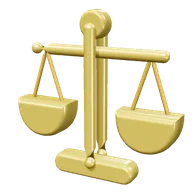
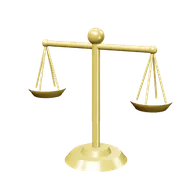
Símbolos modelados en 3D real (16 más): estetoscopio, maletín, termómetro, jeringa, manzana, balanza, mazo, monitor, báscula, alcancía, moneda, pizarrón, birrete, casco, llave y candado

diff --git a/datos/simbolos3d/models.js b/datos/simbolos3d/models.js
@@ -34,6 +34,152 @@ export function kit(material,g){
 const GY='#8C96A0',ST='#A9B6C2',BK='#3A4048',WH='#F3F1EA',RE='#DE4A3C',BL='#3F82C4',GR='#4FAE5B',YE='#F6CD3B',BR='#8A5A36',WO='#B9804B',GO='#E8B53C',NA='#2D4A6E',CR='#F0E2C2',SK='#E7A97C';
 
 export const MODELS={
+  // Estetoscopio: olivas, tubos metálicos en Y, manguera y campana con diafragma
+  'medicina.a'(K){
+    K.sph(3.4,BK,{p:[-16,60,4]});K.sph(3.4,BK,{p:[16,60,4]});
+    K.tube([[-16,58,3],[-15,46,1],[-9,34,0],[0,28,0]],1.5,ST,{m:'metal'});
+    K.tube([[16,58,3],[15,46,1],[9,34,0],[0,28,0]],1.5,ST,{m:'metal'});
+    K.tube([[-10,40,0],[10,40,0]],0.8,ST,{m:'metal'});
+    K.tube([[0,28,0],[0,16,0],[-6,2,2],[-2,-12,6],[12,-14,6],[20,-6,4]],2.4,BK);
+    const h=K.group({p:[24,-4,4],r:[90,0,0]});
+    K.cyl(9,9,4,ST,{m:'metal',parent:h});K.cyl(7.6,7.6,4.4,'#E6EBEF',{parent:h,p:[0,0.4,0]});K.cyl(3,3,5,'#9AA3AC',{m:'metal',parent:h,p:[0,-2,0]});
+  },
+  // Maletín médico con asa, cierre y cruz en ambas caras
+  'medicina.b'(K){
+    K.box(72,46,30,RE,{p:[0,0,0],rad:6});
+    K.box(73,4,31,'#B23A2E',{p:[0,14,0],rad:1.5});
+    K.tube([[-14,23,0],[-14,32,0],[14,32,0],[14,23,0]],2.6,BK,{tension:0.2});
+    [15.3,-15.3].forEach(z=>{K.box(20,6,1.2,WH,{p:[0,-3,z],rad:0.6});K.box(6,20,1.2,WH,{p:[0,-3,z],rad:0.6})});
+    K.box(6,4,2,GO,{m:'gold',p:[0,14,15.6],rad:0.6});
+  },
+  // Termómetro de vidrio con bulbo rojo, columna y escala
+  'o_termometro.a'(K){
+    K.cyl(7,7,70,'#EDF6FA',{m:'glass',p:[0,10,0]});K.sph(7,'#EDF6FA',{m:'glass',p:[0,45,0]});
+    K.sph(11,RE,{p:[0,-30,0]});K.cyl(2.6,2.6,52,RE,{p:[0,0,0]});
+    for(let i=0;i<9;i++)K.box(i%2?3:5,0.8,1,'#5B6670',{p:[8.5,-12+i*6,0],rad:0.2});
+  },
+  // Jeringa: barril de vidrio con líquido, émbolo, aletas y aguja
+  'enfermeria.b'(K){
+    const g=K.group({r:[0,0,-40]});
+    K.cyl(8,8,50,'#DDF1FA',{m:'glass',parent:g});K.cyl(7,7,28,'#E9677A',{p:[0,-10,0],parent:g});
+    K.box(30,3,8,ST,{m:'metal',p:[0,25,0],rad:1,parent:g});
+    K.cyl(2.2,2.2,22,'#C9D0D6',{p:[0,36,0],parent:g});K.cyl(7,7,3,BK,{p:[0,47,0],parent:g});
+    K.cyl(2.4,3.4,5,'#C9D0D6',{p:[0,-27,0],parent:g});K.cyl(0.6,0.6,22,ST,{m:'metal',p:[0,-40,0],parent:g});
+    for(let i=0;i<5;i++)K.box(4,0.7,0.6,BL,{p:[-6,-18+i*8,7.6],rad:0.2,parent:g});
+  },
+  // Manzana con hendidura, tallo y hoja
+  'nutricion.a'(K){
+    K.lathe([[0.01,-30],[8,-31],[18,-27],[27,-16],[31,-2],[30,12],[25,22],[16,27],[8,25],[2,20],[0.01,18]],RE);
+    K.tube([[0,18,0],[1,28,0],[4,34,0]],1.6,BR);
+    K.ext('M0 0 C6 -8 18 -8 22 -2 C16 4 6 4 0 0 Z',2,GR,{bevel:0.8,p:[3,32,0],r:[0,-30,20]});
+    K.sph(5,'#FF8A7A',{p:[-14,10,20],s:[1,1.6,0.4]});
+  },
+
+  // Balanza de la justicia: base, columna, brazo y platillos colgando de cadenas
+  'derecho.a'(K){
+    K.cyl(16,20,5,GO,{m:'gold',p:[0,-40,0]});K.cyl(8,10,4,GO,{m:'gold',p:[0,-36,0]});
+    K.cyl(2.4,2.4,70,GO,{m:'gold',p:[0,-2,0]});K.sph(5,GO,{m:'gold',p:[0,36,0]});
+    K.cyl(1.8,1.8,72,GO,{m:'gold',p:[0,30,0],r:[0,0,90]});
+    [-36,36].forEach(x=>{K.sph(2.4,GO,{m:'gold',p:[x,30,0]});
+      [[-9,0],[9,0],[0,-9],[0,9]].forEach(([dx,dz])=>K.tube([[x,30,0],[x+dx,0,dz]],0.5,'#C9A23A',{m:'gold',nocap:true}));
+      K.lathe([[0.01,-6],[9,-5],[12,-1],[12.5,0]],GO,{m:'gold',p:[x,1,0]})});
+  },
+  // Mazo de juez con bandas doradas sobre su base
+  'derecho.b'(K){
+    K.cyl(18,20,5,'#8F5E30',{m:'wood',p:[6,-30,0]});
+    const g=K.group({p:[-4,6,0],r:[0,0,32]});
+    K.cyl(10,10,40,WO,{m:'wood',r:[0,0,90],parent:g});
+    [-14,14].forEach(x=>K.cyl(10.6,10.6,3,GO,{m:'gold',p:[x,0,0],r:[0,0,90],parent:g}));
+    K.cyl(3.4,3,48,'#A36E3E',{m:'wood',p:[0,-28,0],parent:g});K.sph(4,'#8F5E30',{m:'wood',p:[0,-52,0],parent:g});
+  },
+  // Monitor con código, marco, cuello y base; carcasa trasera con ventilación
+  'computacion.a'(K){
+    K.box(80,52,5,BK,{p:[0,14,0],rad:2});K.box(72,44,0.8,'#13283B',{p:[0,15,2.8],rad:0.4});
+    const c=K.group({p:[0,15,3.4]});
+    K.tube([[-14,9,0],[-24,0,0],[-14,-9,0]],1.8,'#5BE07A',{tension:0,parent:c});K.tube([[14,9,0],[24,0,0],[14,-9,0]],1.8,'#5BE07A',{tension:0,parent:c});K.tube([[5,11,0],[-5,-11,0]],1.8,YE,{parent:c});
+    K.box(40,30,6,'#2E343B',{p:[0,14,-4.5],rad:3});
+    for(let i=0;i<5;i++)K.box(24,1,1,'#22272D',{p:[0,6+i*4,-7.6],rad:0.3});
+    K.box(8,16,5,GY,{m:'metal',p:[0,-17,-3],rad:1.5});K.box(36,3,20,GY,{m:'metal',p:[0,-25,-2],rad:1.4});
+  },
+  // Báscula de baño con pantalla y almohadillas antiderrapantes
+  'o_bascula.a'(K){
+    const g=K.group({r:[62,0,0]});
+    K.box(70,10,70,'#EEF1F4',{rad:5,parent:g});K.box(64,1,64,'#DCE1E6',{p:[0,5.2,0],rad:3,parent:g});
+    K.box(26,1.6,11,'#2B3540',{p:[0,5.8,-23],rad:1,parent:g});
+    [-15,15].forEach(x=>K.box(16,1,30,'#D0D6DC',{p:[x,5.9,9],rad:3,parent:g}));
+    [[-28,-28],[28,-28],[-28,28],[28,28]].forEach(([x,z])=>K.cyl(3,3,2,'#5B6670',{p:[x,-5.6,z],parent:g}));
+    const t=K.group({p:[0,6.8,-23],r:[-90,0,0],parent:g});
+    [-7,-2,4].forEach(x=>K.box(3,5,0.4,'#7CF2C8',{p:[x,0,0],rad:0.2,parent:t}));K.sph(0.6,'#7CF2C8',{p:[1,-2.4,0],parent:t});
+  },
+
+  // Alcancía de cerdito: cuerpo, hocico con fosas, orejas, patas, cola y moneda entrando
+  'finanzas.b'(K){
+    const P='#F2A7B8',PD='#E58AA0';
+    K.sph(30,P,{s:[1.15,0.9,0.85]});
+    const sn=K.group({p:[-34,0,0],r:[0,0,90]});K.cyl(9,10,8,P,{parent:sn});K.cyl(8,8,8.4,PD,{p:[0,0.4,0],parent:sn});
+    [-3.5,3.5].forEach(z=>K.cyl(1.6,1.6,1,'#B9566E',{p:[-38.4,0,z],r:[0,0,90]}));
+    [-10,10].forEach(z=>K.cone(5,10,PD,{p:[-18,26,z],r:[z<0?-20:20,0,-20]}));
+    [[-16,-14],[-16,14],[16,-14],[16,14]].forEach(([x,z])=>K.cyl(5.4,5.4,12,PD,{p:[x,-28,z]}));
+    [-14,14].forEach(z=>{K.sph(2.6,BK,{p:[-24,8,z*0.6]})});
+    K.tube([[34,4,0],[40,8,0],[42,2,3],[38,0,0],[42,-2,0]],1.4,PD);
+    K.box(16,1,3,'#B9566E',{p:[2,27,0],rad:0.4});
+    K.cyl(9,9,2.6,GO,{m:'gold',p:[2,38,0],r:[90,0,0]});
+  },
+  // Moneda gruesa con borde estriado y signo de pesos en ambas caras
+  'finanzas.a'(K){
+    K.cyl(40,40,8,GO,{m:'gold',r:[90,0,0],seg:72});
+    for(let i=0;i<60;i++){const a=i/60*Math.PI*2;K.box(1,1.2,8.4,'#C9961E',{m:'gold',p:[Math.cos(a)*40,Math.sin(a)*40,0],r:[0,0,a*180/Math.PI],rad:0.2})}
+    [4.2,-4.2].forEach(z=>{K.tor(32,1,'#C9961E',{m:'gold',p:[0,0,z]});
+      const g=K.group({p:[0,0,z],r:[0,z<0?180:0,0]});
+      K.tube([[9,13,0],[4,16,0],[-6,15,0],[-10,8,0],[-4,1,0],[6,-1,0],[11,-7,0],[7,-15,0],[-4,-16,0],[-10,-12,0]],2.4,'#B8861C',{m:'gold',parent:g});
+      K.tube([[0,22,0],[0,-22,0]],2,'#B8861C',{m:'gold',parent:g})});
+  },
+  // Pizarrón verde con marco de madera, escritura en gis, bandeja con gis y borrador, caballete
+  'educacion.a'(K){
+    K.box(80,56,4,'#9A6A3A',{m:'wood',p:[0,14,0],rad:1.4});K.box(72,48,0.8,'#2F5E45',{p:[0,14,2.2],rad:0.3});
+    K.box(72,48,0.8,'#2F5E45',{p:[0,14,-2.2],rad:0.3});
+    const w=K.group({p:[0,14,2.8]});
+    [[-12,12,22],[-8,4,30],[-14,-4,18]].forEach(([x,y,l])=>K.tube([[x-l/2+6,y,0],[x+l/2+6,y,0]],0.9,'#F3F1EA',{parent:w}));
+    K.tube([[16,10,0],[28,-2,0]],1,'#F3F1EA',{parent:w});K.tube([[28,10,0],[16,-2,0]],1,'#F3F1EA',{parent:w});
+    K.box(70,2,6,'#8A5A36',{m:'wood',p:[0,-15,3],rad:0.6});K.box(10,1.6,1.6,WH,{p:[-12,-13.2,4],rad:0.6});K.box(12,3,4,'#E9677A',{p:[14,-12.6,4],rad:0.8});
+    [[-30,6],[30,6]].forEach(([x,z])=>K.cyl(1.6,1.6,30,'#8A5A36',{m:'wood',p:[x*1.1,-26,z],r:[-10,0,x<0?-6:6]}));K.cyl(1.6,1.6,34,'#8A5A36',{m:'wood',p:[0,-24,-10],r:[20,0,0]});
+  },
+  // Birrete: tablero, gorro, botón y borla
+  'educacion.b'(K){
+    K.cyl(22,24,20,'#2B3540',{p:[0,-8,0]});
+    const b=K.box(66,3,66,'#3A4652',{p:[0,4,0],r:[0,45,0],rad:0.8});
+    K.cyl(3,3,2,GO,{m:'gold',p:[0,6.4,0]});
+    K.tube([[0,6.6,0],[20,6,20],[30,4,30]],0.8,GO,{m:'gold',nocap:true});
+    K.tube([[30,4,30],[30,-14,30]],0.9,GO,{m:'gold'});K.cyl(2.6,4,10,GO,{m:'gold',p:[30,-18,30]});
+  },
+  // Casco de obra: casco con cresta y ala alrededor
+  'civil.a'(K){
+    K.sph(30,YE,{s:[1,0.95,1.08]}).geometry=new THREE.SphereGeometry(30,48,24,0,Math.PI*2,0,Math.PI/2);
+    K.cyl(31,31,3,YE,{p:[0,0.5,0],s:[1,1,1.08]});
+    K.cyl(40,40,2.4,'#E3B526',{p:[0,-1,9],s:[1,1,1.12],seg:64});
+    K.tor(29,3.4,'#F8DA6A',{p:[0,0,0],r:[0,90,0],arc:180,s:[1,1,1.08]});
+  },
+
+  // Llave perica con quijadas y tornillo sinfín
+  'mecanica.a'(K){
+    const g=K.group({r:[0,0,-40]});
+    K.box(11,58,6,ST,{m:'metal',rad:3,parent:g});
+    K.tor(11,4.6,ST,{m:'metal',p:[0,40,0],arc:270,r:[0,0,-45],s:[1,1,0.7],parent:g});
+    K.box(10,8,6,ST,{m:'metal',p:[0,30,0],rad:2,parent:g});
+    K.tor(9,4,ST,{m:'metal',p:[0,-38,0],arc:270,r:[0,0,135],s:[1,1,0.75],parent:g});
+    K.box(10,8,6,ST,{m:'metal',p:[0,-29,0],rad:2,parent:g});
+    [3.2,-3.2].forEach(z=>K.box(5,30,0.6,'#7C8792',{m:'metal',p:[0,0,z],rad:0.3,parent:g}));
+  },
+
+
+
+  // Candado dorado con arco de acero y ojo de cerradura
+  'ciberseguridad.b'(K){
+    K.box(56,46,18,GO,{m:'gold',p:[0,-10,0],rad:6});
+    K.tube([[-17,12,0],[-17,30,0],[-12,40,0],[0,43,0],[12,40,0],[17,30,0],[17,12,0]],4,ST,{m:'metal'});
+    [9.3,-9.3].forEach(z=>{K.cyl(5,5,1.2,'#7A5A1A',{p:[0,-6,z],r:[90,0,0]});K.box(4,12,1.2,'#7A5A1A',{p:[0,-14,z],rad:0.6})});
+  },
+
   // Laptop: base con teclado y touchpad; pantalla inclinada con bisagra y código; tapa trasera con logo
   'computacion.b'(K){
     K.box(70,5,46,'#A9B6C2',{m:'metal',p:[0,0,0],rad:2});
